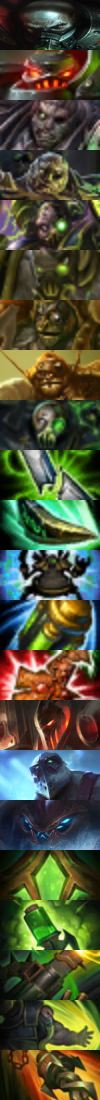
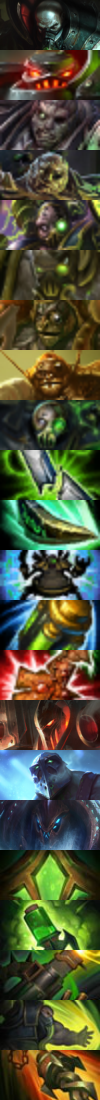
fix issue with wide scalings

diff --git a/urgot2/styles.scss b/urgot2/styles.scss
@@ -11,7 +11,7 @@ $pad: 10px;
   margin: 0 $pad 0 0;
   vertical-align: middle;
   color: #FFF;
-  background: url($flairs) repeat-y #272727;
+  background: url($flairs) repeat-y #272727 0 / 50px;
   position: relative;
   z-index: 10;
   //opacity: 0.7;

diff --git a/gen.py b/gen.py
@@ -47,7 +47,10 @@ flairs_img = Image.new('RGBA', (dim[0], h))
 for y in range(len(images)):
   img = images[y].convert('RGBA')
   if img.size[0] / img.size[1] > dim[0] / dim[1]:
-    img = img.resize((int(img.size[0] / img.size[1] * dim[0]), dim[1]), resample=Image.BILINEAR)
+    width = int(img.size[0] * dim[1] / img.size[1])
+    img = img.resize((width, dim[1]), resample=Image.BILINEAR)
+    offset = int((width - dim[0]) / 2) # extra width / 2
+    img = img.crop((offset, 0, offset + dim[0], dim[1]))
   else:
     img = img.resize(dim, resample=Image.BILINEAR)
 
